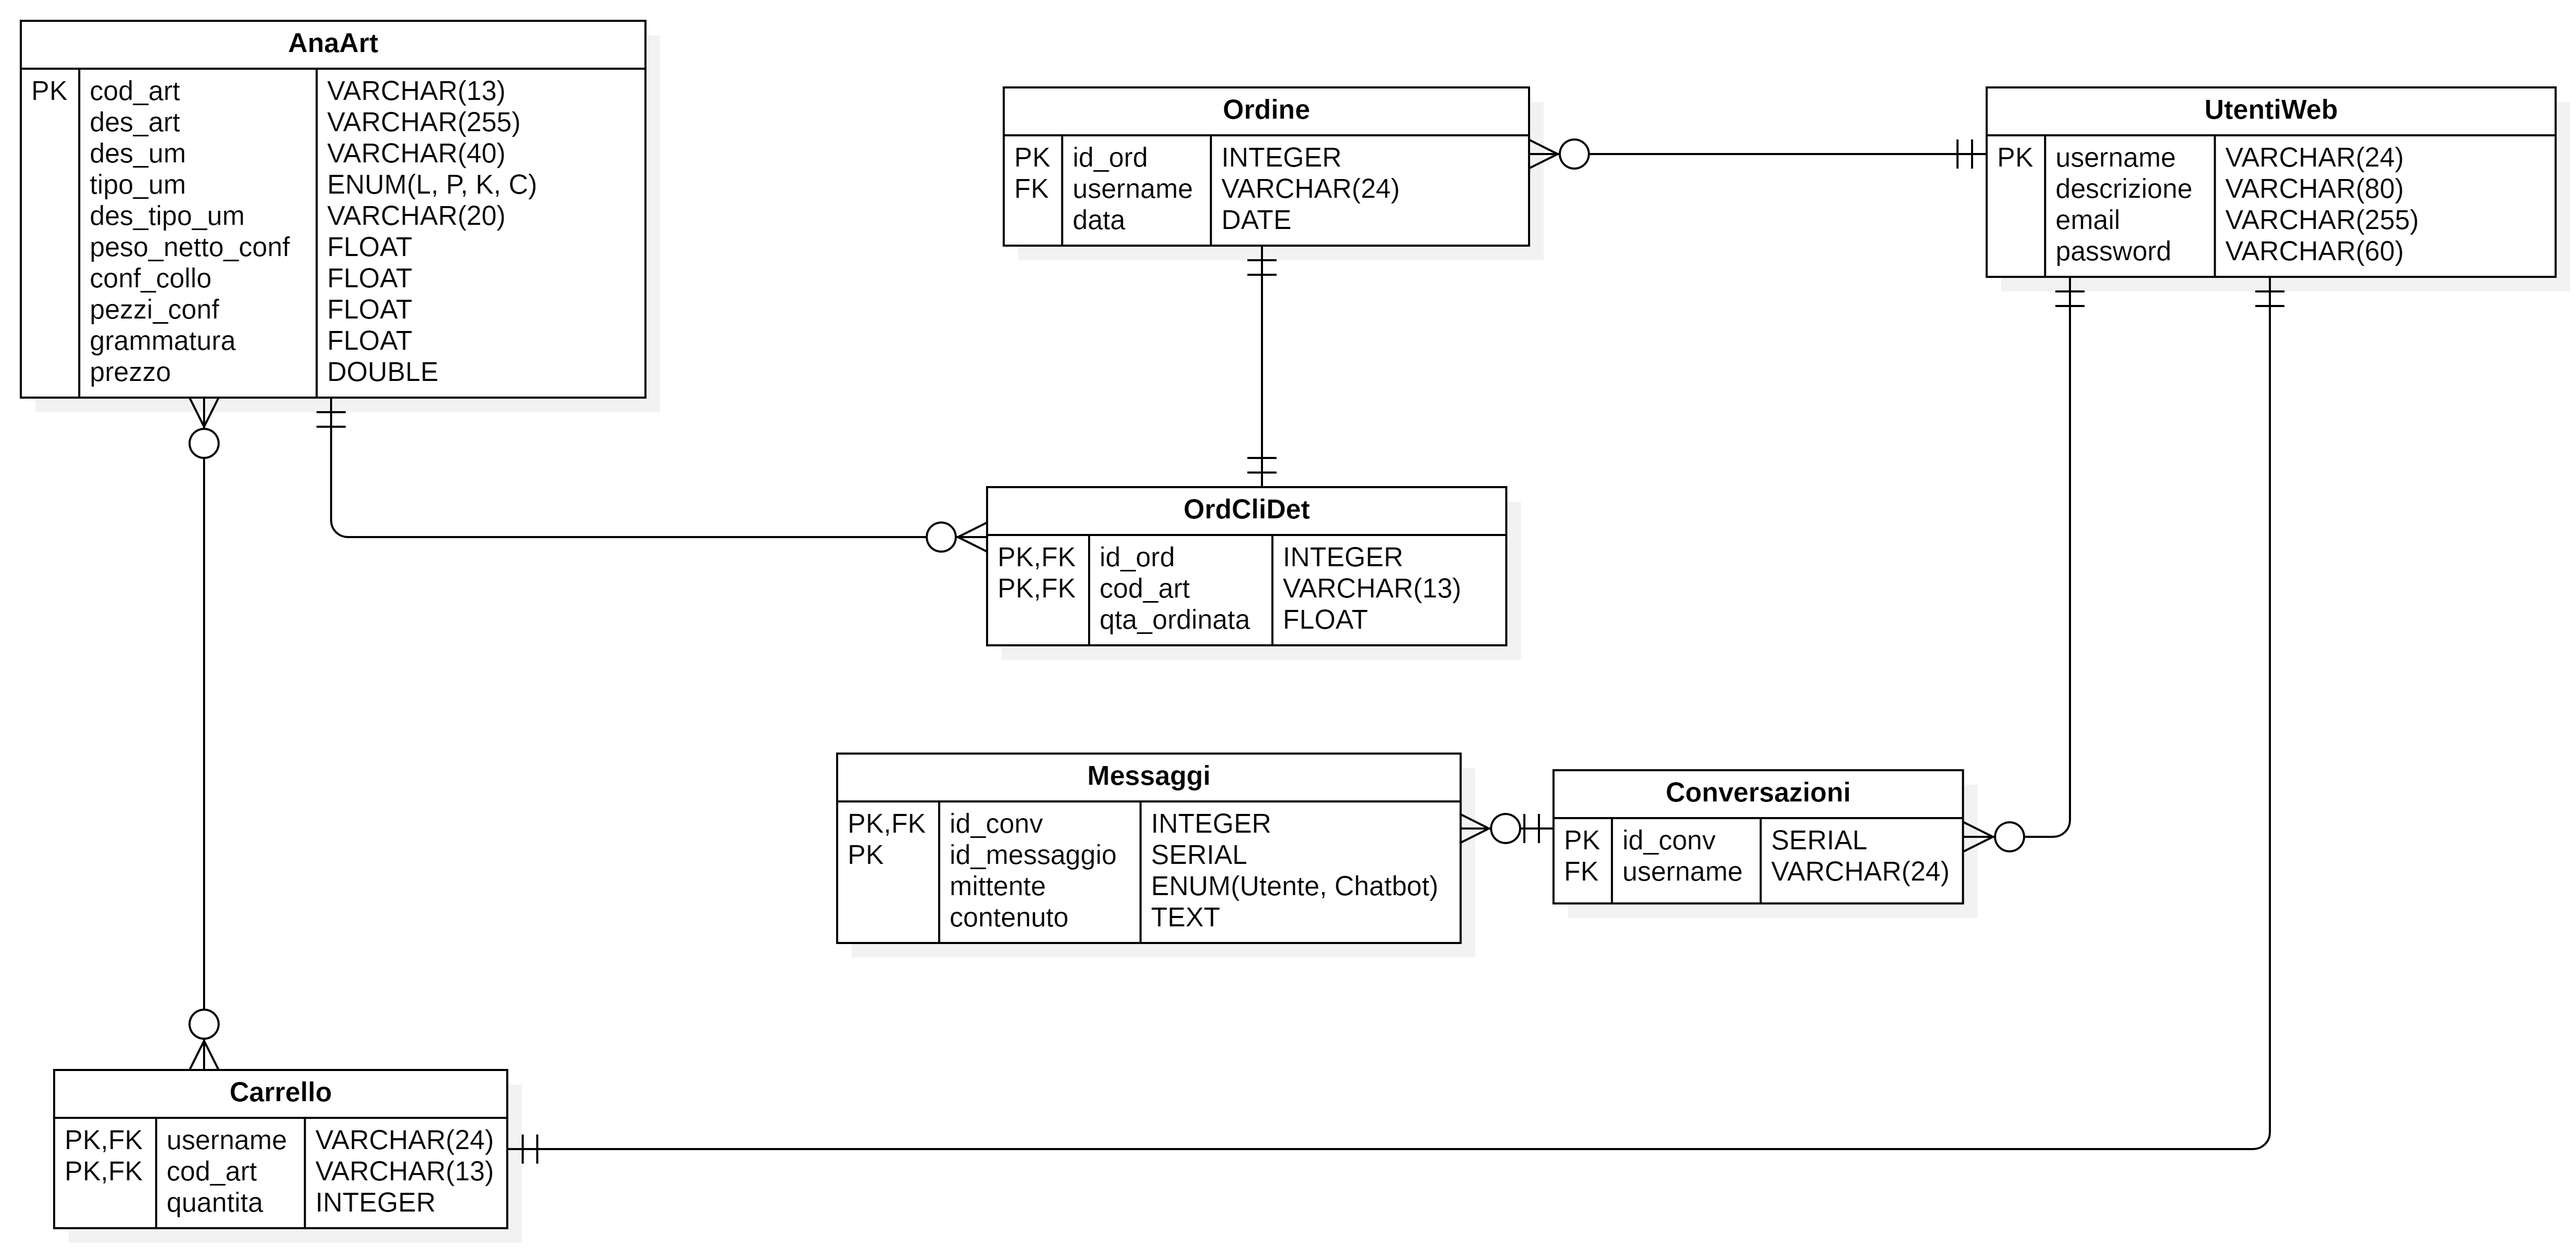
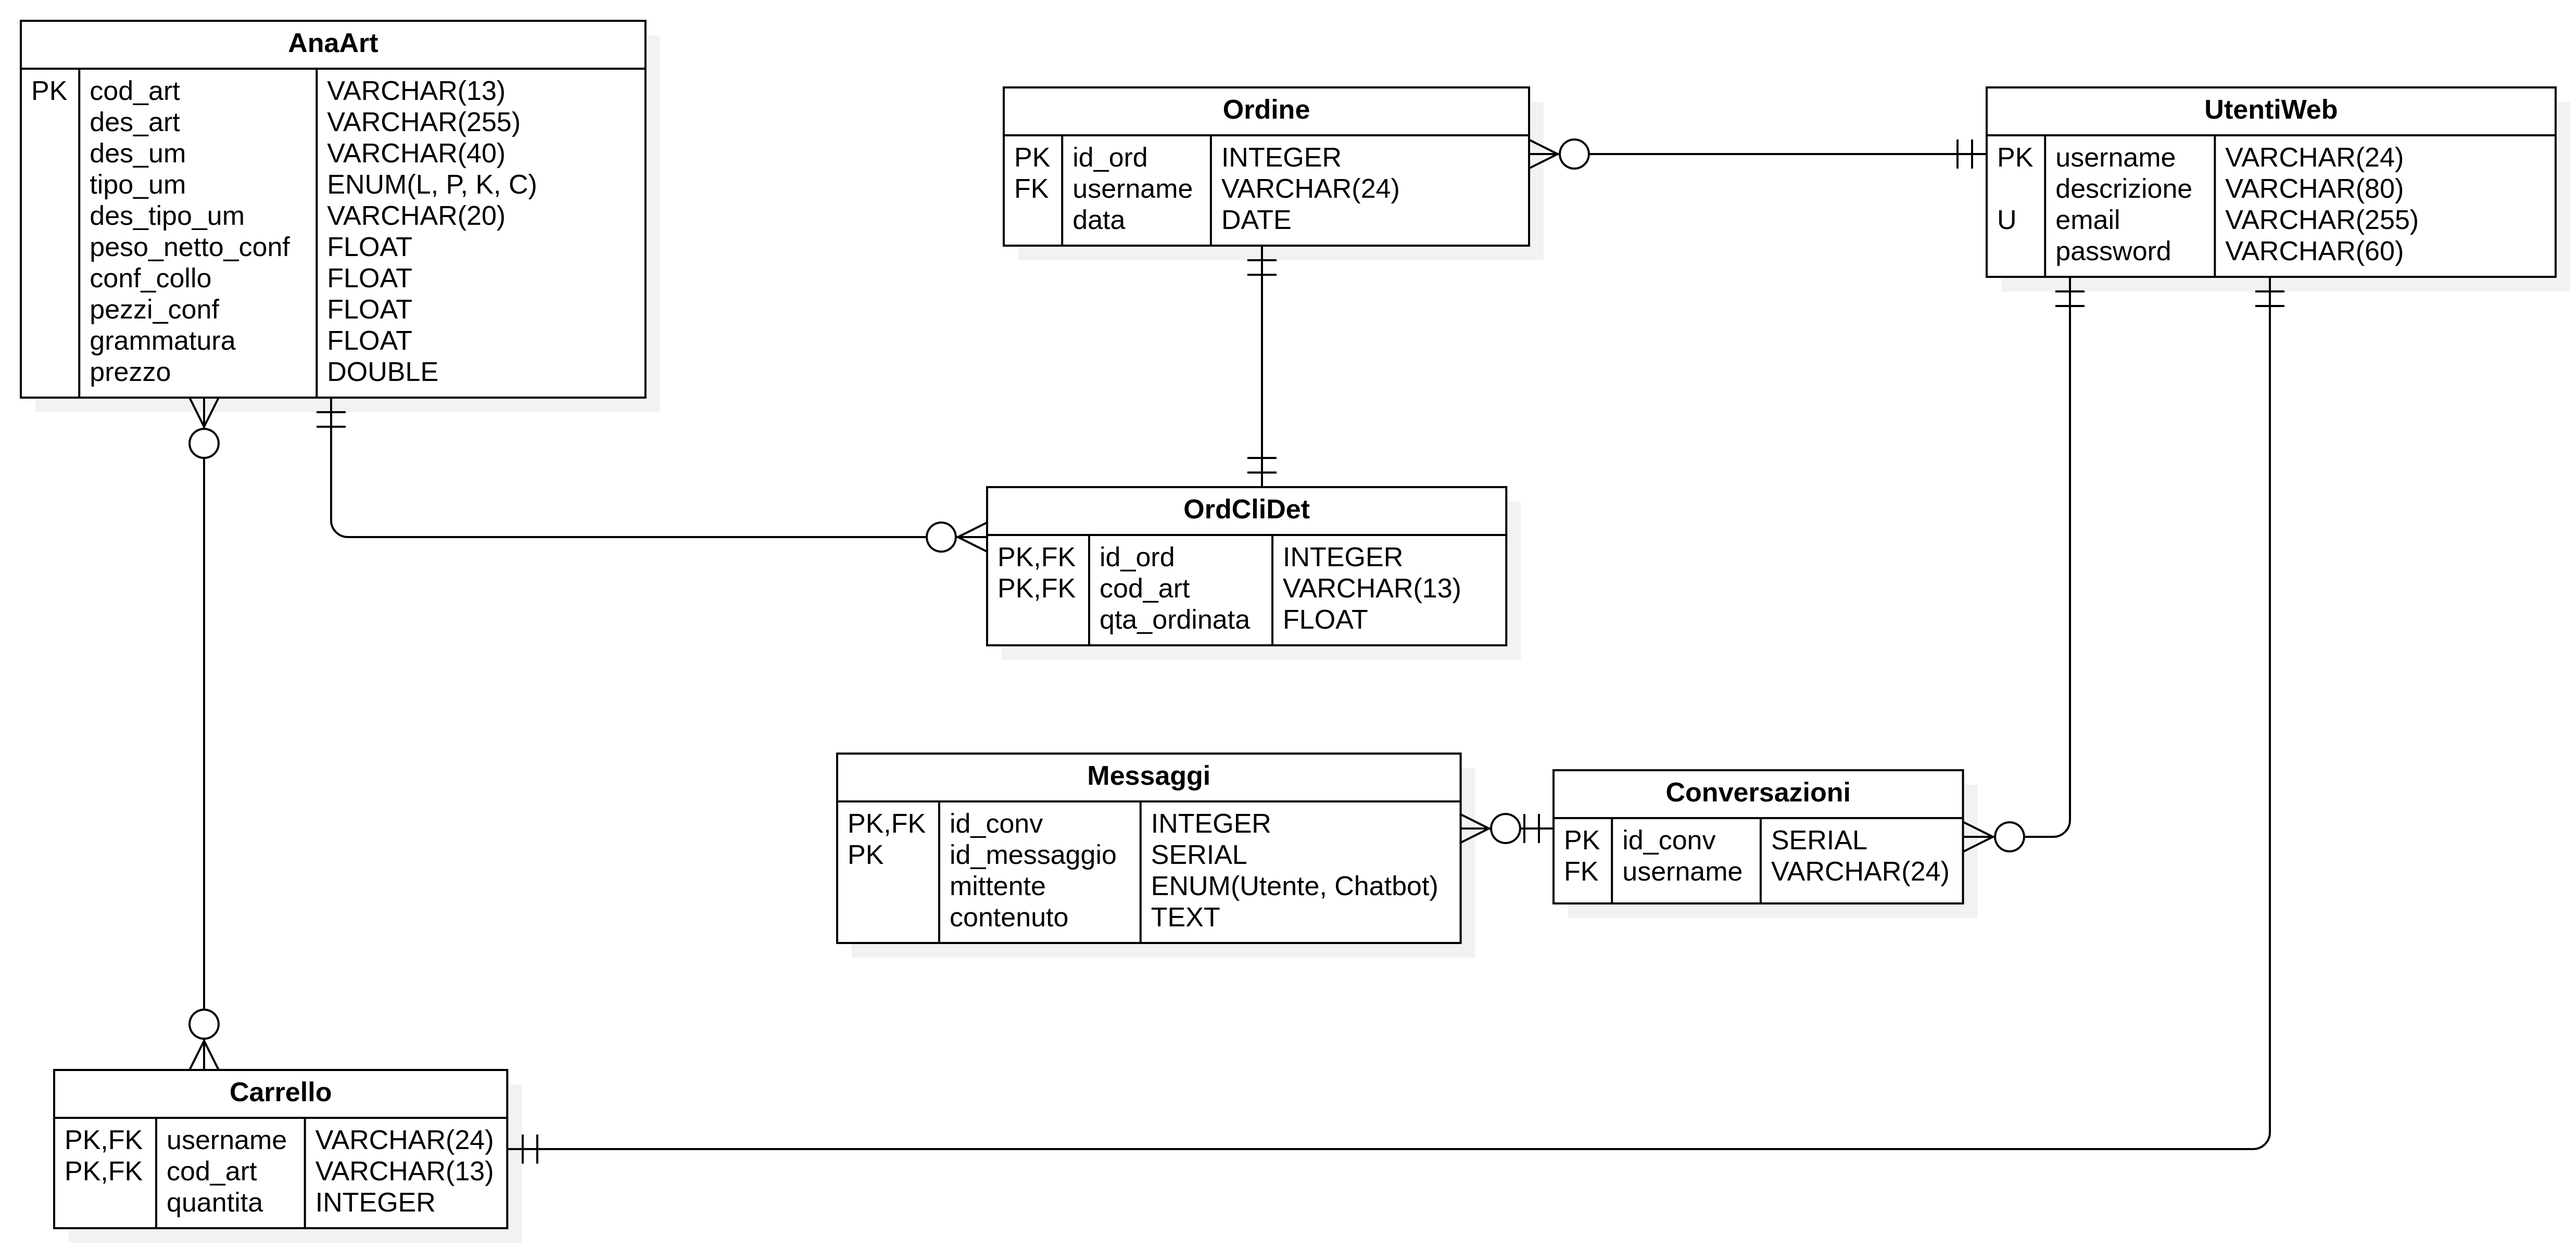
Fix

diff --git a/src/PB/Documenti Esterni/Specifica Tecnica/content/db.tex b/src/PB/Documenti Esterni/Specifica Tecnica/content/db.tex
@@ -2,6 +2,54 @@
 
 \begin{figure}[H]
 	\centering 
-	\includegraphics[width=0.8\textwidth]{SpecificaTecnica/schema_db}
+	\includegraphics[width=0.9\textwidth]{SpecificaTecnica/schema_db}
 	\caption{Schema ER della base di dati}
 \end{figure}
+
+Il database relazionale utilizzato per il progetto SmartOrder non è molto complesso.\\
+In esso vengono salvati:
+\begin{itemize}
+	\item \textbf{anaart}: L'anagrafica degli articoli. È composto da:
+	\begin{itemize}
+		\item \textbf{cod\_art}: Il codice articolo, è la primary key della tabella
+		\item \textbf{des\_art}: Rappresenta la descrizione dell'articolo
+		\item \textbf{des\_um}: Rappresenta la modalità di vendita dell'articolo
+		\item \textbf{tipo\_um}: Rappresenta il tipo della confezione. È descritto da un enum in cui L sta per colli, P per pezzi, K per chilogrammo per e C per confezioni
+		\item \textbf{peso\_netto\_conf}: Rappresenta il peso netto della confezione
+		\item \textbf{conf\_collo}: Rappresenta quante confezioni sono presenti all'interno di un collo
+		\item \textbf{pezzi\_conf}: Rappresenta quanti pezzi sono presenti all'interno di una confezione
+		\item \textbf{grammatura}: Rappresenta il peso
+		\item \textbf{prezzo}: Rappresenta il pezzo in euro del prodotto
+	\end{itemize}
+	\item \textbf{UtentiWeb}: La tabella che tiene salvati gli utenti di SmartOrder. Contiene:
+	\begin{itemize}
+		\item \textbf{username}: Rappresenta il nome dell'utente con cui si può effettuare il login. È la primary key della tabella
+		\item \textbf{descrizione}: Rappresenta la descrizione del cliente associato all'utente
+		\item \textbf{email}: L'email associata all'utente. Deve essere univoca
+		\item \textbf{password}: La password dell'utente. È salvata utilizzando l'algoritmo HS256
+	\end{itemize}
+	\item \textbf{Ordine}: Rappresenta un ordine di un utente. È composto da:
+		\begin{itemize}
+			\item \textbf{id\_ord}: Numero univoco per l'id dell'ordine. È la primary key della tabella
+			\item \textbf{username}: Rappresenta lo username dell'utente associato all'ordine. È una chiave esterna
+			\item \textbf{data}: Rappresenta la data in cui è stato effettuato l'ordine.
+		\end{itemize}
+	\item \textbf{OrdCliDet}: Rappresenta la tabella per collegare gli articoli ordinati dal cliente per un determinato ordine. È composto da:
+	\begin{itemize}
+		\item \textbf{id\_ord}: Rappresenta l'id dell'ordine associato. Viene utilizzato come primary key assieme all'attributo \textbf{cod\_art}. È una chiave esterna
+		\item \textbf{cod\_art}: Rappresenta il codice dell'articolo in oggetto. Viene utilizzato come primary key assieme all'attributo \textbf{id\_ord}. È una chiave esterna 
+	\end{itemize}
+	\item \textbf{Conversazione}: Rappresenta una chat di un utente. È composta da:
+	\begin{itemize}
+		\item \textbf{id\_conv}: Rappresenta l'id della conversazione. È la primary key della tabella
+		\item \textbf{username}: Rappresenta lo username associato a quella conversazione. È una chiave esterna
+	\end{itemize}
+	\item \textbf{Messaggi}: Rappresenta i messaggi all'interno di una conversazione. È composta da:
+	\begin{itemize}
+		\item \textbf{id\_conv}: Rappresenta l'id della conversazione a cui il messaggio è associato. È una primary key assieme all'attributo \textbf{id\_messaggio} ed è una chiave esterna
+		\item \textbf{id\_messaggio}: Rappresenta l'id di un messaggio all'interno di una conversazione. È una primary key assieme all'attributo \textbf{id\_conv}
+		\item \textbf{mittente}: Rappresenta chi ha inviato il messaggio. È rappresentato da un enum e può essere solo utente oppure chatbot
+		\item \textbf{contenuto}: Rappresenta il testo del messaggio
+	\end{itemize}
+	
+\end{itemize}

diff --git a/src/PB/Documenti Esterni/Specifica Tecnica/Specifica_Tecnica.tex b/src/PB/Documenti Esterni/Specifica Tecnica/Specifica_Tecnica.tex
@@ -61,7 +61,7 @@
 \fancyhf{}
 % Intestazione standard
 \fancyhead[L]{NullPointers Group}
-\fancyhead[R]{Norme di Progetto}
+\fancyhead[R]{Specifica Tecnica}
 \renewcommand{\headrulewidth}{0.4pt}
 % Piè di pagina
 \fancyfoot[C]{Pagina \thepage{} di \pageref*{LastPage}}
@@ -71,7 +71,7 @@
 \fancypagestyle{plain}{
   \fancyhf{}
   \fancyhead[L]{NullPointers Group}
-  \fancyhead[R]{Norme di Progetto}
+  \fancyhead[R]{Specifica Tecnica}
   \fancyfoot[C]{Pagina \thepage{} di \pageref*{LastPage}}
   \renewcommand{\headrulewidth}{0.4pt}
   \renewcommand{\footrulewidth}{0.4pt}
